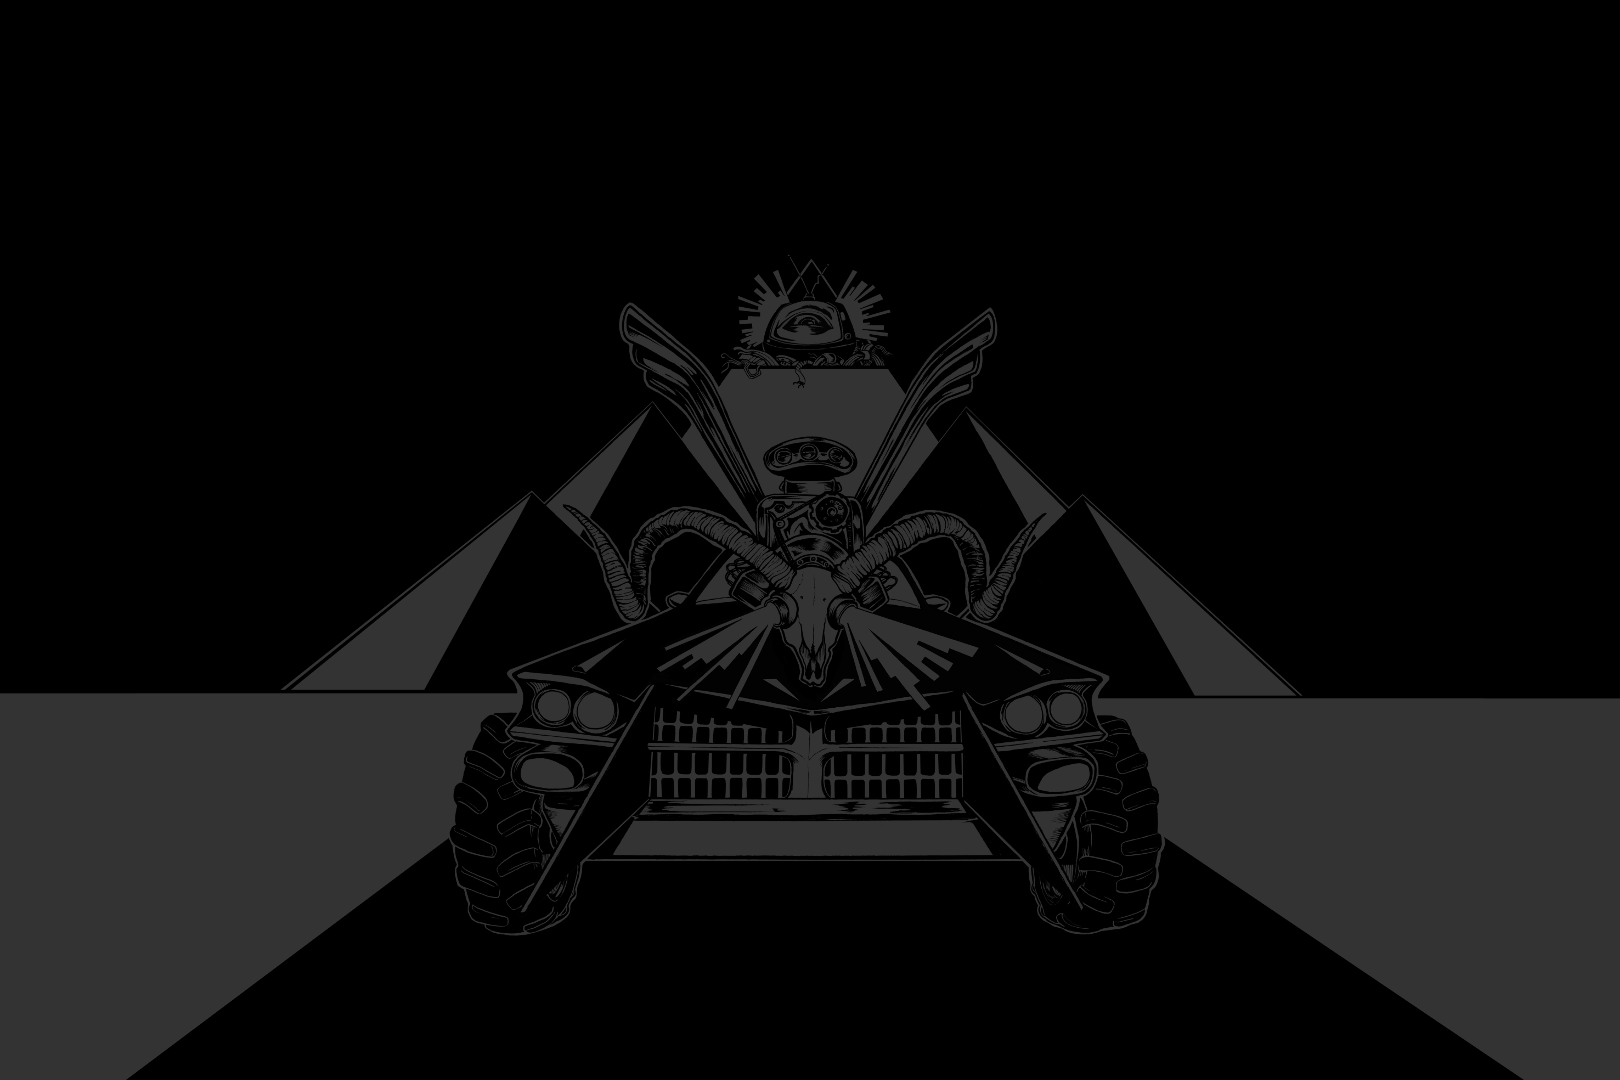
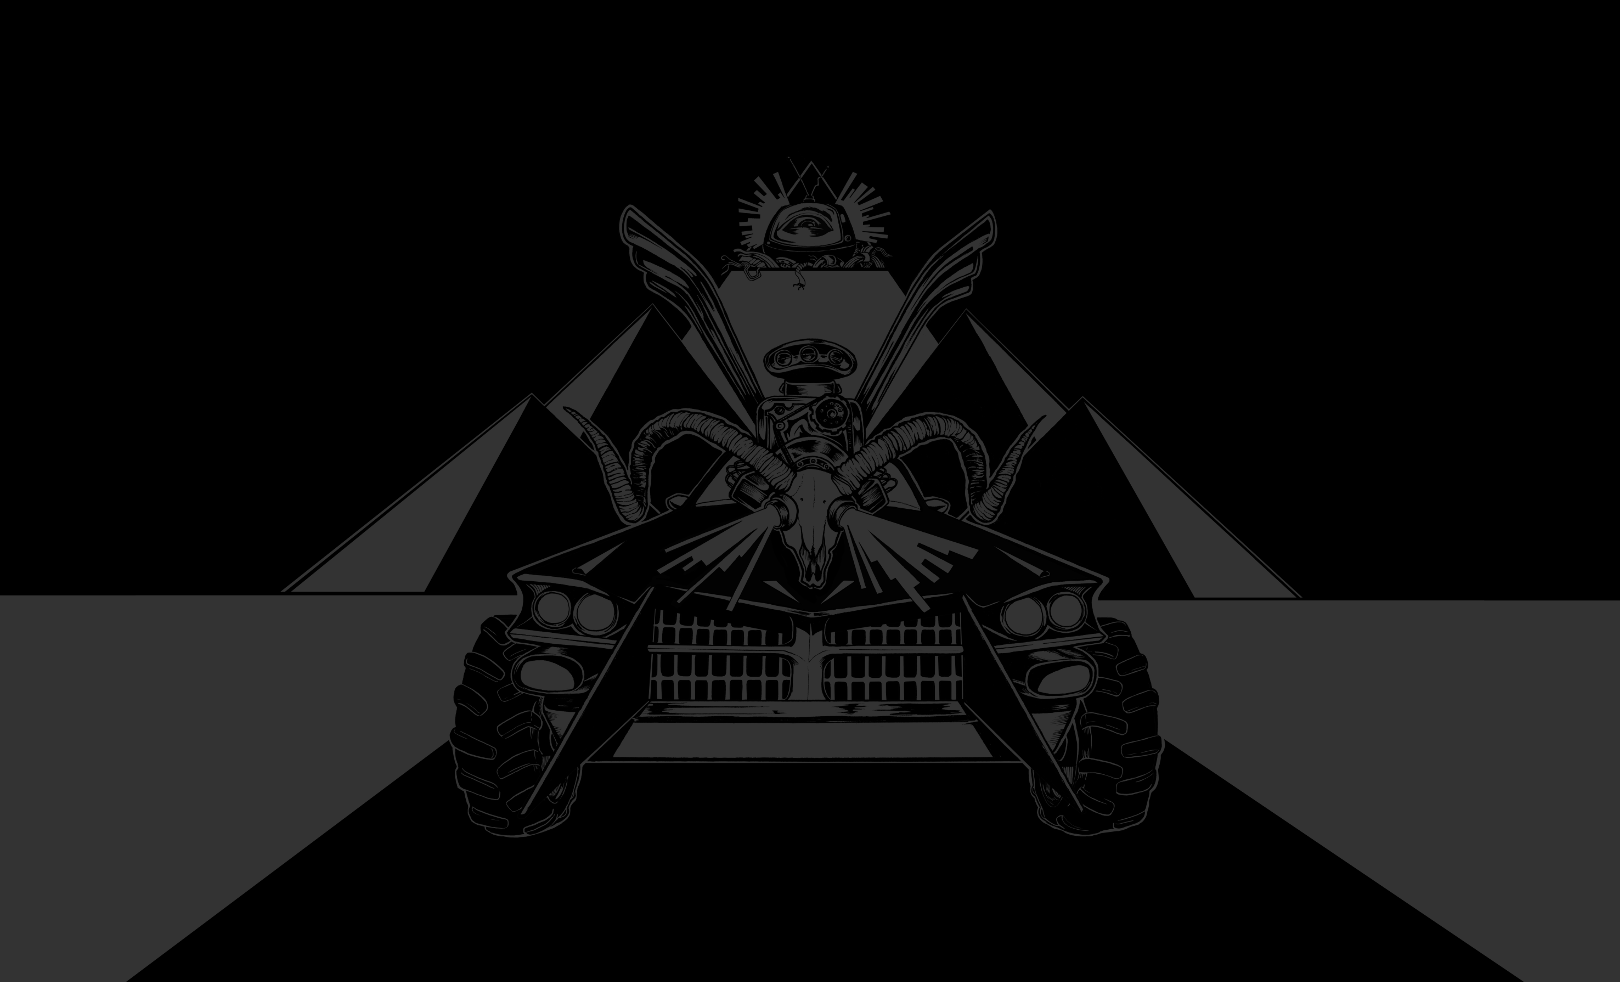
removed qrcodes, resized background

diff --git a/index.html b/index.html
@@ -54,15 +54,15 @@
 				allowfullscreen
 			></iframe>
 		</div>
-		<div class="embed-container">
-			<iframe
-				src="https://open.spotify.com/embed/artist/4nmTYix8b2KwEVHGTrTavn"
-				width="560"
-				height="200"
-				allowtransparency="true"
-				allow="encrypted-media"
-			></iframe>
-		</div>
+<!-- 		<div class="embed-container"> -->
+<!-- 			<iframe -->
+<!-- 				src="https://open.spotify.com/embed/artist/4nmTYix8b2KwEVHGTrTavn" -->
+<!-- 				width="560" -->
+<!-- 				height="200" -->
+<!-- 				allowtransparency="true" -->
+<!-- 				allow="encrypted-media" -->
+<!-- 			></iframe> -->
+<!-- 		</div> -->
 		<div class="filler">
 			<img
 				src="img/blank.png"
